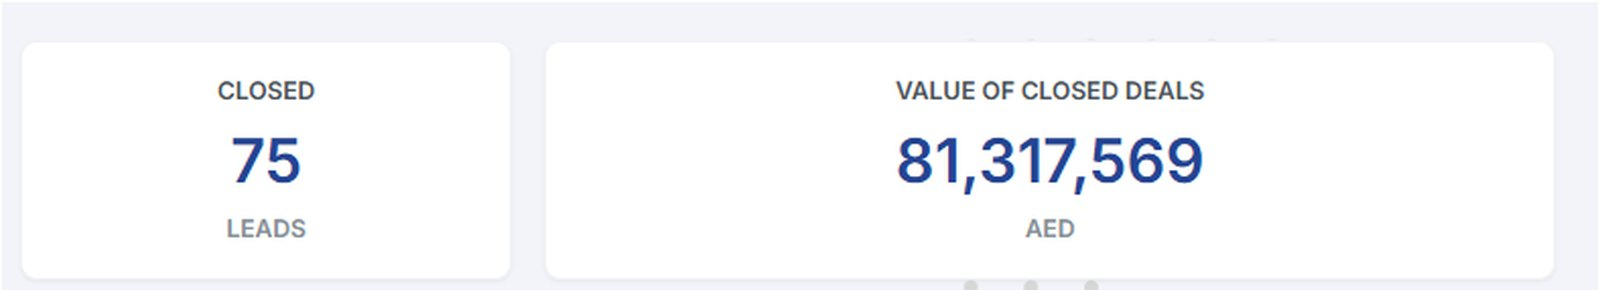
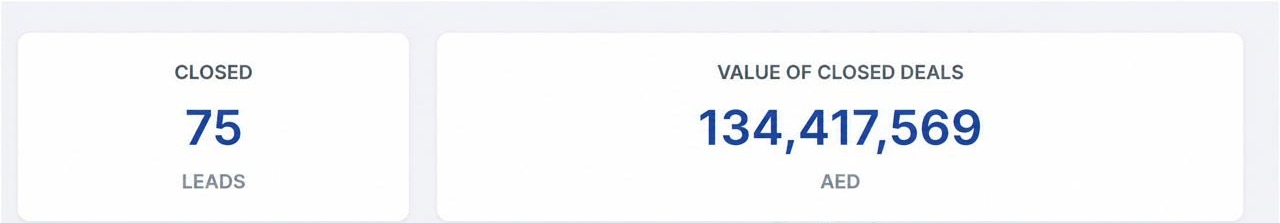
Closed deal value updated to AED 134,417,569
The CRM dashboard now reports AED 134,417,569 across the same 75 closed
deals, so case 02 and every figure derived from it have been recalculated
at the pegged 3.6725:

  closed value      AED 134,417,569  = USD 36.6M   (was USD 22.1M)
  average deal      AED 1.79M        ≈ USD 488K    (was AED 1.08M)
  value per dirham  517x                           (was 313x)

The home page headline moves with it: 47.1 - 22.1 + 36.6 = USD 61.5 Mn +,
keeping the contribution from the other brands unchanged.

Also replaces the CRM screenshot with the new dashboard crop, refreshes
the og:image:alt on all seven pages, updates the deck and the social card
source, and bumps every sitemap lastmod.

Claude-Session: https://claude.ai/code/session_01WvhRDge3ToZ8jrBB9JQYnv

diff --git a/case-crm-closings.html b/case-crm-closings.html
@@ -12,25 +12,25 @@
 </script>
 <meta charset="utf-8">
 <meta name="viewport" content="width=device-width,initial-scale=1">
-<title>USD 22.1M closed from direct leads — Isuru Marasinghe</title>
+<title>USD 36.6M closed from direct leads — Isuru Marasinghe</title>
 <meta name="google-site-verification" content="DIW5ROwDRpi_2F6pmTCKQRL050cAkq0UAVs_hDUr6RQ" />
-<meta name="description" content="The CRM snapshot behind Isuru Marasinghe&#x27;s UAE real estate media buying: 75 deals worth USD 22.1M on about USD 71K of ad spend.">
+<meta name="description" content="The CRM snapshot behind Isuru Marasinghe&#x27;s UAE real estate media buying: 75 deals worth USD 36.6M on about USD 71K of ad spend.">
 <meta name="author" content="Isuru Marasinghe">
 <meta name="robots" content="index,follow,max-image-preview:large,max-snippet:-1">
 <link rel="canonical" href="https://isurumarasinghe.com/case-crm-closings.html">
 <meta property="og:url" content="https://isurumarasinghe.com/case-crm-closings.html">
 <meta property="og:site_name" content="Isuru Marasinghe">
 <meta property="og:locale" content="en_US">
-<meta property="og:title" content="USD 22.1M closed from direct leads — Isuru Marasinghe">
-<meta property="og:description" content="The CRM snapshot behind Isuru Marasinghe&#x27;s UAE real estate media buying: 75 deals worth USD 22.1M on about USD 71K of ad spend.">
+<meta property="og:title" content="USD 36.6M closed from direct leads — Isuru Marasinghe">
+<meta property="og:description" content="The CRM snapshot behind Isuru Marasinghe&#x27;s UAE real estate media buying: 75 deals worth USD 36.6M on about USD 71K of ad spend.">
 <meta property="og:type" content="article">
 <meta property="og:image" content="https://isurumarasinghe.com/assets/img/og-cover.jpg">
 <meta property="og:image:width" content="1200">
 <meta property="og:image:height" content="630">
-<meta property="og:image:alt" content="Isuru Marasinghe, full stack digital marketer, with USD 4.5M+ ad spend managed and USD 47.1M+ in closed deal value">
+<meta property="og:image:alt" content="Isuru Marasinghe, full stack digital marketer, with USD 4.5M+ ad spend managed and USD 61.5M+ in closed deal value">
 <meta name="twitter:card" content="summary_large_image">
-<meta name="twitter:title" content="USD 22.1M closed from direct leads — Isuru Marasinghe">
-<meta name="twitter:description" content="The CRM snapshot behind Isuru Marasinghe&#x27;s UAE real estate media buying: 75 deals worth USD 22.1M on about USD 71K of ad spend.">
+<meta name="twitter:title" content="USD 36.6M closed from direct leads — Isuru Marasinghe">
+<meta name="twitter:description" content="The CRM snapshot behind Isuru Marasinghe&#x27;s UAE real estate media buying: 75 deals worth USD 36.6M on about USD 71K of ad spend.">
 <meta name="twitter:image" content="https://isurumarasinghe.com/assets/img/og-cover.jpg">
 <meta name="theme-color" content="#F1F0EE">
 <link rel="icon" href="favicon.ico" sizes="48x48 32x32 16x16">
@@ -46,8 +46,8 @@
 {
   "@context": "https://schema.org",
   "@type": "Article",
-  "headline": "From lead to closing: USD 22.1M in property sold",
-  "description": "The CRM snapshot behind Isuru Marasinghe's UAE real estate media buying: 75 deals worth USD 22.1M on about USD 71K of ad spend.",
+  "headline": "From lead to closing: USD 36.6M in property sold",
+  "description": "The CRM snapshot behind Isuru Marasinghe's UAE real estate media buying: 75 deals worth USD 36.6M on about USD 71K of ad spend.",
   "author": {
     "@type": "Person",
     "name": "Isuru Marasinghe",
@@ -86,7 +86,7 @@
     {
       "@type": "ListItem",
       "position": 3,
-      "name": "USD 22.1M closed from direct leads",
+      "name": "USD 36.6M closed from direct leads",
       "item": "https://isurumarasinghe.com/case-crm-closings.html"
     }
   ]
@@ -122,15 +122,15 @@
 
     <header class="cs-head reveal">
       <span class="eyebrow">Case 02 · CRM · UAE real estate</span>
-      <h1>From lead to closing: USD 22.1M in property sold</h1>
-      <p class="lede">The same real-estate pipeline followed past the lead form and into the CRM, where 75 deals closed for a combined AED 81,317,569 on roughly AED 260K of media spend.</p>
+      <h1>From lead to closing: USD 36.6M in property sold</h1>
+      <p class="lede">The same real-estate pipeline followed past the lead form and into the CRM, where 75 deals closed for a combined AED 134,417,569 on roughly AED 260K of media spend.</p>
     </header>
 
     <div class="statbar case-stats reveal">
       <div><div class="v metric">75</div><div class="l">Deals closed</div><div class="c">Recorded in the CRM</div></div>
-      <div><div class="v metric">USD 22.1M</div><div class="l">Closed deal value</div><div class="c">AED 81,317,569</div></div>
+      <div><div class="v metric">USD 36.6M</div><div class="l">Closed deal value</div><div class="c">AED 134,417,569</div></div>
       <div><div class="v metric">USD 71K</div><div class="l">Media spend</div><div class="c">≈ AED 260,000</div></div>
-      <div><div class="v metric">313×</div><div class="l">Closed value per dollar</div><div class="c">Sale value ÷ media spend</div></div>
+      <div><div class="v metric">517×</div><div class="l">Closed value per dollar</div><div class="c">Sale value ÷ media spend</div></div>
     </div>
 
     <div class="cs-grid">
@@ -156,8 +156,8 @@
       <h2 id="evidence-case-crm-closings">The report behind it</h2>
       <p class="lede">Taken from the platform exactly as exported. Click any report to open it full size.</p>
       <figure class="shot">
-        <button class="shot-img" type="button" data-zoom="assets/img/results/crm-closings.jpg" aria-label="Open this report full size"><picture><source srcset="assets/img/results/crm-closings.webp" type="image/webp"><img src="assets/img/results/crm-closings.jpg" alt="CRM closed-deals snapshot from Isuru Marasinghe&#x27;s UAE real estate pipeline showing AED 81,317,569 closed"  loading="lazy" decoding="async"></picture></button>
-        <figcaption><span class="cap">CRM · closed-deals snapshot</span><span class="what">What you are looking at: the two summary cards from the CRM dashboard. The left card is the count of closed deals, 75. The right card is their combined sale value, AED 81,317,569, which is about USD 22.1M at the pegged rate. Client and project columns are cropped out because the account is under NDA.</span><button class="shot-open" type="button" data-zoom="assets/img/results/crm-closings.jpg">Open full size</button></figcaption>
+        <button class="shot-img" type="button" data-zoom="assets/img/results/crm-closings.jpg" aria-label="Open this report full size"><picture><source srcset="assets/img/results/crm-closings.webp" type="image/webp"><img src="assets/img/results/crm-closings.jpg" alt="CRM closed-deals snapshot from Isuru Marasinghe&#x27;s UAE real estate pipeline showing AED 134,417,569 closed"  loading="lazy" decoding="async"></picture></button>
+        <figcaption><span class="cap">CRM · closed-deals snapshot</span><span class="what">What you are looking at: the two summary cards from the CRM dashboard. The left card is the count of closed deals, 75. The right card is their combined sale value, AED 134,417,569, which is about USD 36.6M at the pegged rate. Client and project columns are cropped out because the account is under NDA.</span><button class="shot-open" type="button" data-zoom="assets/img/results/crm-closings.jpg">Open full size</button></figcaption>
       </figure>
     </section>
 
@@ -168,10 +168,10 @@
           <thead><tr><th>Measure</th><th class="n">Value</th><th class="n">Notes</th></tr></thead>
           <tbody>
 <tr><td>Deals closed</td><td class="n">75</td><td class="n">Recorded as won in the CRM</td></tr>
-<tr><td>Closed value</td><td class="n">AED 81,317,569</td><td class="n">About USD 22.1M at 3.6725</td></tr>
-<tr><td>Average deal value</td><td class="n">≈ AED 1.08M</td><td class="n">Closed value ÷ deals</td></tr>
+<tr><td>Closed value</td><td class="n">AED 134,417,569</td><td class="n">About USD 36.6M at 3.6725</td></tr>
+<tr><td>Average deal value</td><td class="n">≈ AED 1.79M</td><td class="n">Closed value ÷ deals, about USD 488K</td></tr>
 <tr><td>Media spend behind the pipeline</td><td class="n">≈ AED 260,000</td><td class="n">About USD 71K</td></tr>
-<tr><td><strong>Closed value per dirham spent</strong></td><td class="n"><strong>313×</strong></td><td class="n">Sale value, not commission</td></tr>
+<tr><td><strong>Closed value per dirham spent</strong></td><td class="n"><strong>517×</strong></td><td class="n">Sale value, not commission</td></tr>
           </tbody>
         </table>
       </div>
@@ -180,7 +180,7 @@
 
     <section class="cs-result reveal">
       <h2>What it means</h2>
-      <p>Three hundred and thirteen dirhams of property sold for every dirham of media. That multiple is the reason the account kept scaling: the conversation with the client stopped being about cost per lead and became about how much pipeline the next AED 100K could buy.</p>
+      <p>Five hundred and seventeen dirhams of property sold for every dirham of media, at an average deal value of AED 1.79M. That multiple is the reason the account kept scaling: the conversation with the client stopped being about cost per lead and became about how much pipeline the next AED 100K could buy.</p>
     </section>
 
     <nav class="cs-nav reveal" aria-label="More cases">

diff --git a/print/deck.html b/print/deck.html
@@ -45,7 +45,7 @@
       </ul>
       <div class="statbar" style="grid-template-columns:repeat(4,minmax(0,1fr))">
         <div><div class="v metric" style="font-size:30px"><small>USD</small>4.5<small>Mn</small><small class="plus">+</small></div><div class="l">Ad spend managed</div></div>
-        <div><div class="v metric" style="font-size:30px"><small>USD</small>47.1<small>Mn</small><small class="plus">+</small></div><div class="l">Closed deal value</div></div>
+        <div><div class="v metric" style="font-size:30px"><small>USD</small>61.5<small>Mn</small><small class="plus">+</small></div><div class="l">Closed deal value</div></div>
         <div><div class="v metric" style="font-size:30px">5,364<small class="plus">+</small></div><div class="l">Leads, one account</div></div>
         <div><div class="v metric" style="font-size:30px">15.73<small>×</small></div><div class="l">Peak Google ROAS</div></div>
       </div>
@@ -106,7 +106,7 @@
   <div class="ph"><div class="t"><span class="num">03 / Results</span><h2>Selected results, straight from the accounts</h2></div><p class="lede">Six cases follow, each with the platform report it came from. Headline figures in USD; AED converted at the pegged 3.6725.</p></div>
   <div class="work">
     <div class="tile"><div class="cover"><img src="../assets/img/covers/lead-gen.svg" alt=""><span class="tag">Meta Ads</span></div><div class="body"><div class="kicker"><span class="eyebrow">UAE real estate</span><span class="num">Case 01</span></div><h3>5,364 property leads from one Meta account</h3><div class="kpis"><div><div class="v metric">5,364</div><div class="l">Leads</div></div><div><div class="v metric"><small>USD</small>11.91</div><div class="l">Avg. CPL</div></div><div><div class="v metric">4.7<small>M</small></div><div class="l">Reach</div></div></div></div></div>
-    <div class="tile"><div class="cover"><img src="../assets/img/covers/closings.svg" alt=""><span class="tag">CRM</span></div><div class="body"><div class="kicker"><span class="eyebrow">UAE real estate</span><span class="num">Case 02</span></div><h3>From lead to closing</h3><div class="kpis"><div><div class="v metric">75</div><div class="l">Deals closed</div></div><div><div class="v metric"><small>USD</small>22.1<small>M</small></div><div class="l">Closed value</div></div><div><div class="v metric">313<small>×</small></div><div class="l">Value / $ spent</div></div></div></div></div>
+    <div class="tile"><div class="cover"><img src="../assets/img/covers/closings.svg" alt=""><span class="tag">CRM</span></div><div class="body"><div class="kicker"><span class="eyebrow">UAE real estate</span><span class="num">Case 02</span></div><h3>From lead to closing</h3><div class="kpis"><div><div class="v metric">75</div><div class="l">Deals closed</div></div><div><div class="v metric"><small>USD</small>36.6<small>M</small></div><div class="l">Closed value</div></div><div><div class="v metric">517<small>×</small></div><div class="l">Value / $ spent</div></div></div></div></div>
     <div class="tile"><div class="cover"><img src="../assets/img/covers/ecom-meta.svg" alt=""><span class="tag">Meta Ads</span></div><div class="body"><div class="kicker"><span class="eyebrow">E-commerce</span><span class="num">Case 03</span></div><h3>Purchase-optimised growth on Meta</h3><div class="kpis"><div><div class="v metric">3.55<small>×</small></div><div class="l">Top ROAS</div></div><div><div class="v metric">3.02<small>%</small></div><div class="l">CTR</div></div><div><div class="v metric"><small>USD</small>0.35</div><div class="l">CPC</div></div></div></div></div>
     <div class="tile"><div class="cover"><img src="../assets/img/covers/ecom-google.svg" alt=""><span class="tag">Google Ads</span></div><div class="body"><div class="kicker"><span class="eyebrow">E-commerce</span><span class="num">Case 04</span></div><h3>Search and Shopping that pays for itself</h3><div class="kpis"><div><div class="v metric">15.73<small>×</small></div><div class="l">ROAS · Sep 24</div></div><div><div class="v metric"><small>USD</small>19.8<small>K</small></div><div class="l">Sales</div></div><div><div class="v metric">210</div><div class="l">Purchases</div></div></div></div></div>
     <div class="tile"><div class="cover"><img src="../assets/img/covers/email.svg" alt=""><span class="tag">Klaviyo</span></div><div class="body"><div class="kicker"><span class="eyebrow">Lifecycle</span><span class="num">Case 05</span></div><h3>Email revenue that grew while the list grew</h3><div class="kpis"><div><div class="v metric">+141<small>%</small></div><div class="l">Cart value</div></div><div><div class="v metric">+55<small>%</small></div><div class="l">Order value</div></div><div><div class="v metric">144<small>K</small></div><div class="l">Recipients</div></div></div></div></div>
@@ -152,15 +152,15 @@
 
 <!-- 06 case 02 -->
 <section class="page case-page">
-  <div class="ph"><div class="t"><span class="num">Case 02 / CRM · UAE real estate</span><h2>From lead to closing: USD 22.1M in closed deals</h2></div></div>
+  <div class="ph"><div class="t"><span class="num">Case 02 / CRM · UAE real estate</span><h2>From lead to closing: USD 36.6M in closed deals</h2></div></div>
   <div class="grid">
     <div class="copy">
-      <p>Media buying only matters if the sales team can close what it delivers. The CRM snapshot shows the outcome of the direct leads generated for the UAE real-estate pipeline: 75 deals closed with a combined value of AED 81,317,569, about USD 22.1M, on roughly AED 260K (USD 71K) of media spend behind those leads.</p>
+      <p>Media buying only matters if the sales team can close what it delivers. The CRM snapshot shows the outcome of the direct leads generated for the UAE real-estate pipeline: 75 deals closed with a combined value of AED 134,417,569, about USD 36.6M, on roughly AED 260K (USD 71K) of media spend behind those leads, an average of AED 1.79M a deal.</p>
       <div class="statbar">
         <div><div class="v metric">75</div><div class="l">Deals closed</div></div>
-        <div><div class="v metric"><small>USD</small>22.1<small>M</small></div><div class="l">Closed deal value</div></div>
+        <div><div class="v metric"><small>USD</small>36.6<small>M</small></div><div class="l">Closed deal value</div></div>
         <div><div class="v metric"><small>USD</small>71<small>K</small></div><div class="l">Media spend</div></div>
-        <div><div class="v metric">313<small>×</small></div><div class="l">Value per dollar spent</div></div>
+        <div><div class="v metric">517<small>×</small></div><div class="l">Value per dollar spent</div></div>
       </div>
       <div class="facts">
         <div><span class="k">Source</span><span>CRM closed-deals dashboard</span></div>
@@ -169,7 +169,7 @@
       </div>
     </div>
     <div class="shots">
-      <figure><img src="../assets/img/results/crm-closings.jpg" alt="CRM dashboard cards: 75 closed leads and AED 81,317,569 value of closed deals"><figcaption><span>CRM · closed deals snapshot</span><span class="mono">AED 81,317,569</span></figcaption></figure>
+      <figure><img src="../assets/img/results/crm-closings.jpg" alt="CRM dashboard cards: 75 closed leads and AED 134,417,569 value of closed deals"><figcaption><span>CRM · closed deals snapshot</span><span class="mono">AED 134,417,569</span></figcaption></figure>
       <figure class="art"><img src="../assets/img/covers/closings.svg" alt=""></figure>
     </div>
   </div>

diff --git a/index.html b/index.html
@@ -23,17 +23,17 @@
 <meta property="og:site_name" content="Isuru Marasinghe">
 <meta property="og:locale" content="en_US">
 <meta property="og:title" content="Isuru Marasinghe — Full Stack Digital Marketer">
-<meta property="og:description" content="Performance marketer, media buyer, campaign architect and creative strategist. USD 4.5M+ in managed ad spend and USD 47.1M+ in closed deal value from direct leads.">
+<meta property="og:description" content="Performance marketer, media buyer, campaign architect and creative strategist. USD 4.5M+ in managed ad spend and USD 61.5M+ in closed deal value from direct leads.">
 <meta property="og:type" content="profile">
 <meta property="profile:first_name" content="Isuru">
 <meta property="profile:last_name" content="Marasinghe">
 <meta property="og:image" content="https://isurumarasinghe.com/assets/img/og-cover.jpg">
 <meta property="og:image:width" content="1200">
 <meta property="og:image:height" content="630">
-<meta property="og:image:alt" content="Isuru Marasinghe, full stack digital marketer, with USD 4.5M+ ad spend managed and USD 47.1M+ in closed deal value">
+<meta property="og:image:alt" content="Isuru Marasinghe, full stack digital marketer, with USD 4.5M+ ad spend managed and USD 61.5M+ in closed deal value">
 <meta name="twitter:card" content="summary_large_image">
 <meta name="twitter:title" content="Isuru Marasinghe — Full Stack Digital Marketer">
-<meta name="twitter:description" content="Performance marketer, media buyer, campaign architect and creative strategist. USD 4.5M+ in managed ad spend and USD 47.1M+ in closed deal value from direct leads.">
+<meta name="twitter:description" content="Performance marketer, media buyer, campaign architect and creative strategist. USD 4.5M+ in managed ad spend and USD 61.5M+ in closed deal value from direct leads.">
 <meta name="twitter:image" content="https://isurumarasinghe.com/assets/img/og-cover.jpg">
 <meta name="theme-color" content="#F1F0EE">
 <link rel="icon" href="favicon.ico" sizes="48x48 32x32 16x16">
@@ -246,7 +246,7 @@
 
   <div class="statbar hero-stats reveal" aria-label="Headline results">
     <div><div class="v metric"><small>USD</small><span data-count="4.5" data-decimals="1">4.5</span><small>Mn</small><small class="plus">+</small></div><div class="l">Ad spend managed</div><div class="c">Meta, TikTok, Google &amp; programmatic</div></div>
-    <div><div class="v metric"><small>USD</small><span data-count="47.1" data-decimals="1">47.1</span><small>Mn</small><small class="plus">+</small></div><div class="l">Closed deal value</div><div class="c">From direct leads generated across brands</div></div>
+    <div><div class="v metric"><small>USD</small><span data-count="61.5" data-decimals="1">61.5</span><small>Mn</small><small class="plus">+</small></div><div class="l">Closed deal value</div><div class="c">From direct leads generated across brands</div></div>
     <div><div class="v metric"><span data-count="5364">5,364</span><small class="plus">+</small></div><div class="l">Leads generated</div><div class="c">One Meta account · USD 11.91 avg. cost per lead</div></div>
     <div><div class="v metric"><span data-count="15.73" data-decimals="2">15.73</span><small>×</small></div><div class="l">Peak Google Ads ROAS</div><div class="c">E-commerce</div></div>
   </div>
@@ -363,11 +363,11 @@
         <div class="body">
           <div class="kicker"><span class="eyebrow">UAE real estate</span><span class="num">Case 02</span></div>
           <h3>From lead to closing</h3>
-          <p>The same pipeline followed through to closed deals: USD 22.1M of property sold from direct leads, on roughly USD 71K of media spend.</p>
+          <p>The same pipeline followed through to closed deals: USD 36.6M of property sold from direct leads, on roughly USD 71K of media spend.</p>
           <div class="kpis">
             <div><div class="v metric">75</div><div class="l">Deals closed</div></div>
-            <div><div class="v metric"><small>USD</small>22.1<small>M</small></div><div class="l">Closed value</div></div>
-            <div><div class="v metric">313<small>×</small></div><div class="l">Value per dollar spent</div></div>
+            <div><div class="v metric"><small>USD</small>36.6<small>M</small></div><div class="l">Closed value</div></div>
+            <div><div class="v metric">517<small>×</small></div><div class="l">Value per dollar spent</div></div>
           </div>
           <div class="more"><span>View closed-deals snapshot</span><span class="arrow" aria-hidden="true">→</span></div>
         </div>

diff --git a/case-meta-leads.html b/case-meta-leads.html
@@ -27,7 +27,7 @@
 <meta property="og:image" content="https://isurumarasinghe.com/assets/img/og-cover.jpg">
 <meta property="og:image:width" content="1200">
 <meta property="og:image:height" content="630">
-<meta property="og:image:alt" content="Isuru Marasinghe, full stack digital marketer, with USD 4.5M+ ad spend managed and USD 47.1M+ in closed deal value">
+<meta property="og:image:alt" content="Isuru Marasinghe, full stack digital marketer, with USD 4.5M+ ad spend managed and USD 61.5M+ in closed deal value">
 <meta name="twitter:card" content="summary_large_image">
 <meta name="twitter:title" content="5,364 property leads from one Meta account — Isuru Marasinghe">
 <meta name="twitter:description" content="5,364 property leads from one Meta Ads account in the UAE at USD 11.91 average cost per lead, with the Ads Manager report shown in full.">
@@ -192,7 +192,7 @@
 
     <nav class="cs-nav reveal" aria-label="More cases">
       <a class="prev" href="case-tiktok-leads.html"><span class="num">Case 06</span><span>857 property leads from TikTok at USD 39 each</span></a>
-      <a class="next" href="case-crm-closings.html"><span class="num">Case 02</span><span>From lead to closing: USD 22.1M in property sold</span></a>
+      <a class="next" href="case-crm-closings.html"><span class="num">Case 02</span><span>From lead to closing: USD 36.6M in property sold</span></a>
     </nav>
 
     <div class="cs-cta reveal">

diff --git a/case-meta-ecom.html b/case-meta-ecom.html
@@ -27,7 +27,7 @@
 <meta property="og:image" content="https://isurumarasinghe.com/assets/img/og-cover.jpg">
 <meta property="og:image:width" content="1200">
 <meta property="og:image:height" content="630">
-<meta property="og:image:alt" content="Isuru Marasinghe, full stack digital marketer, with USD 4.5M+ ad spend managed and USD 47.1M+ in closed deal value">
+<meta property="og:image:alt" content="Isuru Marasinghe, full stack digital marketer, with USD 4.5M+ ad spend managed and USD 61.5M+ in closed deal value">
 <meta name="twitter:card" content="summary_large_image">
 <meta name="twitter:title" content="Purchase-optimised growth on Meta — Isuru Marasinghe">
 <meta name="twitter:description" content="Purchase-optimised Meta Ads for UAE e-commerce: 3.55x top ad-set ROAS, 3.02% CTR and USD 0.35 cost per click, with three account views in full.">
@@ -190,7 +190,7 @@
     </section>
 
     <nav class="cs-nav reveal" aria-label="More cases">
-      <a class="prev" href="case-crm-closings.html"><span class="num">Case 02</span><span>From lead to closing: USD 22.1M in property sold</span></a>
+      <a class="prev" href="case-crm-closings.html"><span class="num">Case 02</span><span>From lead to closing: USD 36.6M in property sold</span></a>
       <a class="next" href="case-google-ads.html"><span class="num">Case 04</span><span>Search and Shopping that paid for itself fifteen times over</span></a>
     </nav>
 

diff --git a/case-klaviyo.html b/case-klaviyo.html
@@ -27,7 +27,7 @@
 <meta property="og:image" content="https://isurumarasinghe.com/assets/img/og-cover.jpg">
 <meta property="og:image:width" content="1200">
 <meta property="og:image:height" content="630">
-<meta property="og:image:alt" content="Isuru Marasinghe, full stack digital marketer, with USD 4.5M+ ad spend managed and USD 47.1M+ in closed deal value">
+<meta property="og:image:alt" content="Isuru Marasinghe, full stack digital marketer, with USD 4.5M+ ad spend managed and USD 61.5M+ in closed deal value">
 <meta name="twitter:card" content="summary_large_image">
 <meta name="twitter:title" content="Klaviyo email revenue up 55% year on year — Isuru Marasinghe">
 <meta name="twitter:description" content="Klaviyo flows and campaigns for a Shopify store: placed-order value up 55% and add-to-cart value up 141% year on year, both dashboards shown.">

diff --git a/case-tiktok-leads.html b/case-tiktok-leads.html
@@ -27,7 +27,7 @@
 <meta property="og:image" content="https://isurumarasinghe.com/assets/img/og-cover.jpg">
 <meta property="og:image:width" content="1200">
 <meta property="og:image:height" content="630">
-<meta property="og:image:alt" content="Isuru Marasinghe, full stack digital marketer, with USD 4.5M+ ad spend managed and USD 47.1M+ in closed deal value">
+<meta property="og:image:alt" content="Isuru Marasinghe, full stack digital marketer, with USD 4.5M+ ad spend managed and USD 61.5M+ in closed deal value">
 <meta name="twitter:card" content="summary_large_image">
 <meta name="twitter:title" content="857 property leads from TikTok — Isuru Marasinghe">
 <meta name="twitter:description" content="TikTok Ads case study: 35 campaigns, 9.67M impressions and 857 property leads at USD 39.14 each for a Dubai real estate brokerage.">

diff --git a/case-google-ads.html b/case-google-ads.html
@@ -27,7 +27,7 @@
 <meta property="og:image" content="https://isurumarasinghe.com/assets/img/og-cover.jpg">
 <meta property="og:image:width" content="1200">
 <meta property="og:image:height" content="630">
-<meta property="og:image:alt" content="Isuru Marasinghe, full stack digital marketer, with USD 4.5M+ ad spend managed and USD 47.1M+ in closed deal value">
+<meta property="og:image:alt" content="Isuru Marasinghe, full stack digital marketer, with USD 4.5M+ ad spend managed and USD 61.5M+ in closed deal value">
 <meta name="twitter:card" content="summary_large_image">
 <meta name="twitter:title" content="Google Ads at a 15.73x return — Isuru Marasinghe">
 <meta name="twitter:description" content="Google Ads Search and Performance Max returning 15.73x in the best month, with four monthly account snapshots shown in full.">

diff --git a/print/og-card.html b/print/og-card.html
@@ -30,7 +30,7 @@
     <div class="rule"></div>
     <div class="stats">
       <div><span class="v"><small>USD</small>4.5<small>Mn+</small></span><span class="l">Ad spend managed</span></div>
-      <div><span class="v"><small>USD</small>47.1<small>Mn+</small></span><span class="l">Closed deal value</span></div>
+      <div><span class="v"><small>USD</small>61.5<small>Mn+</small></span><span class="l">Closed deal value</span></div>
       <div><span class="v">5,364<small>+</small></span><span class="l">Leads generated</span></div>
     </div>
   </div>

diff --git a/scripts/build-cases.py b/scripts/build-cases.py
@@ -55,38 +55,38 @@ CASES = [
 },
 {
  "slug": "case-crm-closings",
- "stitle": "USD 22.1M closed from direct leads",
+ "stitle": "USD 36.6M closed from direct leads",
  "num": "Case 02",
  "kicker": "CRM · UAE real estate",
- "title": "From lead to closing: USD 22.1M in property sold",
+ "title": "From lead to closing: USD 36.6M in property sold",
  "tag": "CRM · Closed deals",
  "cover": "assets/img/covers/closings.svg",
- "lede": "The same real-estate pipeline followed past the lead form and into the CRM, where 75 deals closed for a combined AED 81,317,569 on roughly AED 260K of media spend.",
- "desc": "The CRM snapshot behind Isuru Marasinghe's UAE real estate media buying: 75 deals worth USD 22.1M on about USD 71K of ad spend.",
+ "lede": "The same real-estate pipeline followed past the lead form and into the CRM, where 75 deals closed for a combined AED 134,417,569 on roughly AED 260K of media spend.",
+ "desc": "The CRM snapshot behind Isuru Marasinghe's UAE real estate media buying: 75 deals worth USD 36.6M on about USD 71K of ad spend.",
  "facts": [("Source","CRM closed-deals dashboard"),
            ("Market","UAE real estate"),
            ("Media spend","Roughly AED 260,000, about USD 71K, behind the closed pipeline"),
            ("Context","Around USD 300K of lifetime UAE real-estate ad spend to date")],
  "stats": [("75","Deals closed","Recorded in the CRM"),
-           ("USD 22.1M","Closed deal value","AED 81,317,569"),
+           ("USD 36.6M","Closed deal value","AED 134,417,569"),
            ("USD 71K","Media spend","≈ AED 260,000"),
-           ("313×","Closed value per dollar","Sale value ÷ media spend")],
+           ("517×","Closed value per dollar","Sale value ÷ media spend")],
  "brief": "Cost per lead is easy to flatter and easy to argue with. The only number a developer or brokerage actually cares about is how much property the pipeline sold, so the leads from the Meta account were followed through the CRM to the closing stage.",
  "did": ["Matched CRM stages back to the ad sets and lead forms that created each record, so closings could be attributed rather than guessed.",
          "Reported on closed value alongside cost per lead every week, which changed which ad sets got budget.",
          "Fed the closing data back into targeting and creative, favouring the audiences that produced deals rather than the ones that produced cheap forms."],
  "shots": [("assets/img/results/crm-closings.jpg",
-            "CRM closed-deals snapshot from Isuru Marasinghe's UAE real estate pipeline showing AED 81,317,569 closed",
+            "CRM closed-deals snapshot from Isuru Marasinghe's UAE real estate pipeline showing AED 134,417,569 closed",
             "CRM · closed-deals snapshot",
-            "What you are looking at: the two summary cards from the CRM dashboard. The left card is the count of closed deals, 75. The right card is their combined sale value, AED 81,317,569, which is about USD 22.1M at the pegged rate. Client and project columns are cropped out because the account is under NDA.")],
+            "What you are looking at: the two summary cards from the CRM dashboard. The left card is the count of closed deals, 75. The right card is their combined sale value, AED 134,417,569, which is about USD 36.6M at the pegged rate. Client and project columns are cropped out because the account is under NDA.")],
  "table": {"head": ["Measure","Value","Notes"],
   "rows": [["Deals closed","75","Recorded as won in the CRM"],
-           ["Closed value","AED 81,317,569","About USD 22.1M at 3.6725"],
-           ["Average deal value","≈ AED 1.08M","Closed value ÷ deals"],
+           ["Closed value","AED 134,417,569","About USD 36.6M at 3.6725"],
+           ["Average deal value","≈ AED 1.79M","Closed value ÷ deals, about USD 488K"],
            ["Media spend behind the pipeline","≈ AED 260,000","About USD 71K"],
-           ["<strong>Closed value per dirham spent</strong>","<strong>313×</strong>","Sale value, not commission"]],
+           ["<strong>Closed value per dirham spent</strong>","<strong>517×</strong>","Sale value, not commission"]],
   "note": "Closed value is the sale value of the properties as recorded in the CRM, not agency revenue or commission."},
- "result": "Three hundred and thirteen dirhams of property sold for every dirham of media. That multiple is the reason the account kept scaling: the conversation with the client stopped being about cost per lead and became about how much pipeline the next AED 100K could buy.",
+ "result": "Five hundred and seventeen dirhams of property sold for every dirham of media, at an average deal value of AED 1.79M. That multiple is the reason the account kept scaling: the conversation with the client stopped being about cost per lead and became about how much pipeline the next AED 100K could buy.",
 },
 {
  "slug": "case-meta-ecom",
@@ -340,7 +340,7 @@ def build(case):
 <meta property="og:image" content="{SITE}assets/img/og-cover.jpg">
 <meta property="og:image:width" content="1200">
 <meta property="og:image:height" content="630">
-<meta property="og:image:alt" content="Isuru Marasinghe, full stack digital marketer, with USD 4.5M+ ad spend managed and USD 47.1M+ in closed deal value">
+<meta property="og:image:alt" content="Isuru Marasinghe, full stack digital marketer, with USD 4.5M+ ad spend managed and USD 61.5M+ in closed deal value">
 <meta name="twitter:card" content="summary_large_image">
 <meta name="twitter:title" content="{case['stitle']} — Isuru Marasinghe">
 <meta name="twitter:description" content="{html.escape(case['desc'])}">
